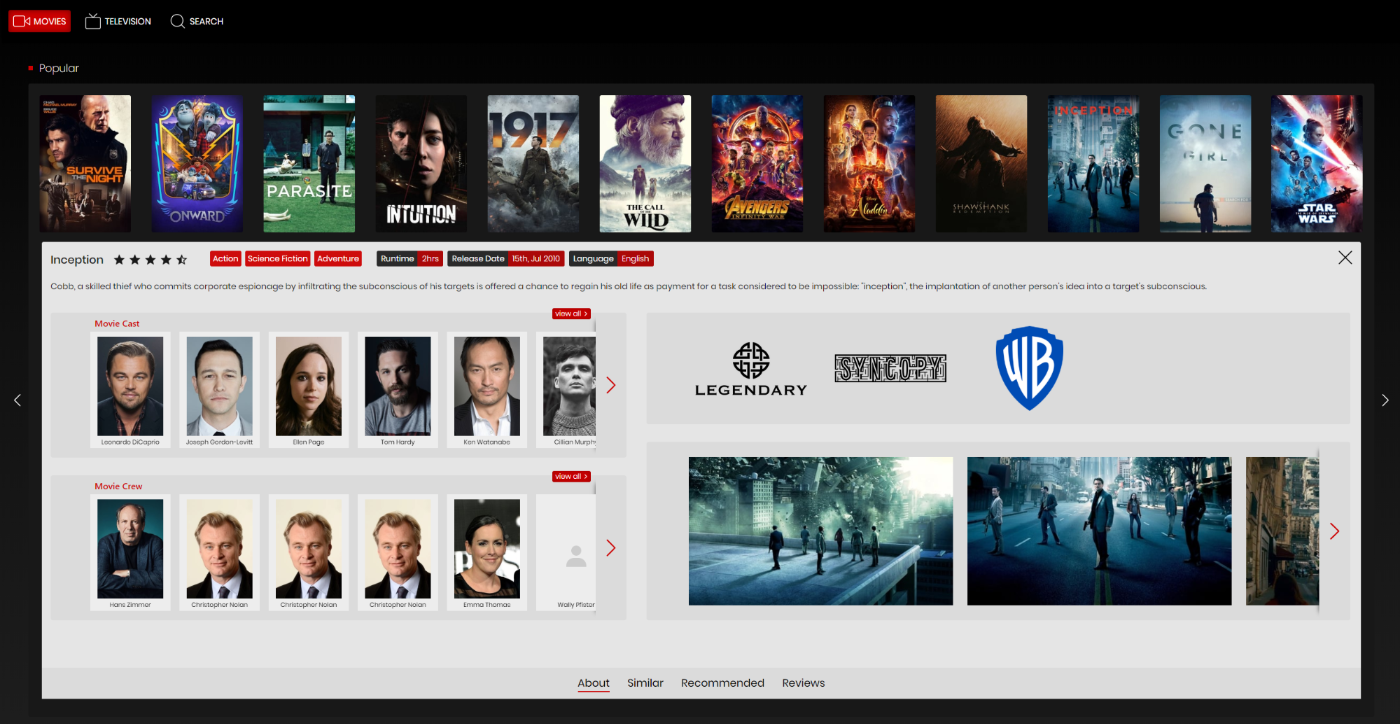
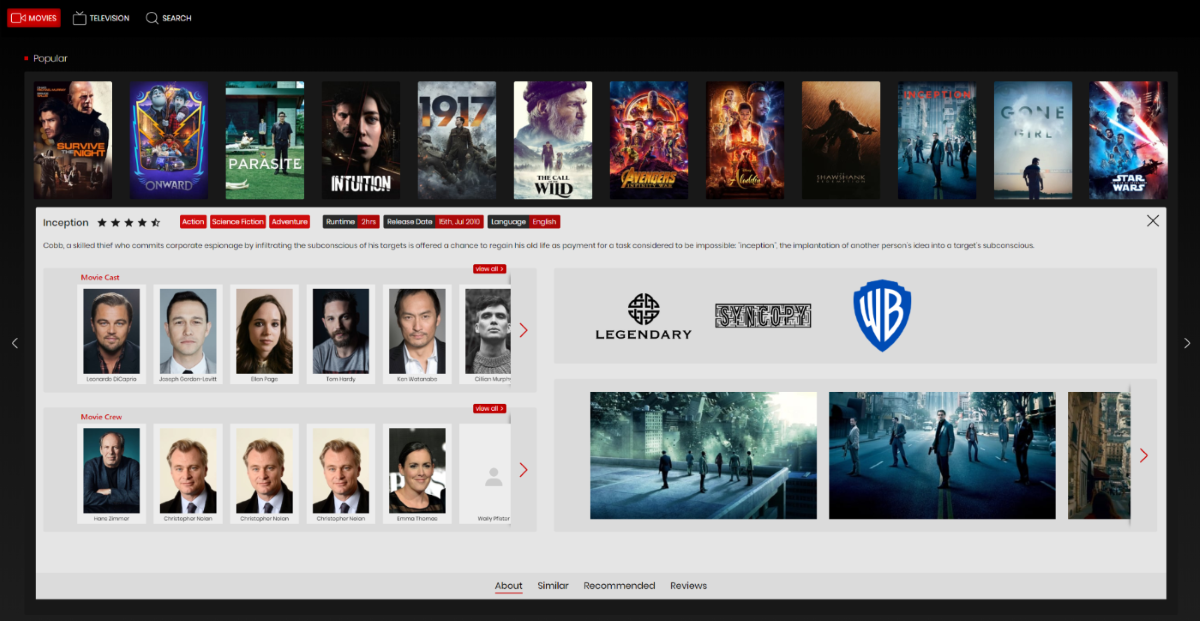
minor upgrades to details section

diff --git a/ui/src/components/media-details/title/details-title.style.ts b/ui/src/components/media-details/title/details-title.style.ts
@@ -18,11 +18,11 @@ export const Title = styled(Font)`
 export const TitleWrapper = styled.div`
   align-items: center;
   display: flex;
+  height: 100%;
   justify-content: flex-start;
   margin-top: .5rem;
-  width: 100%;
   padding-left: 1rem;
-  height: 100%;
+  width: 95%;
 `;
 
 export const DetailsRatingContainer = styled.div`
@@ -44,7 +44,7 @@ export const TitleText = styled.span<{resxProps: responsiveProps}>`
   color: #191919;
   display: flex;
   font-family: Poppins;
-  font-size: ${p => p.resxProps.isBigScreen ? "1.25rem" : "1rem"};
+  font-size: ${p => p.resxProps.isBigScreen ? "1.25rem" : ".9rem"};
   font-weight: 500;
   height: 100%;
   max-width: 85%;
@@ -53,11 +53,12 @@ export const TitleText = styled.span<{resxProps: responsiveProps}>`
   white-space: nowrap;
 `;
 
-export const TitleRow1 = styled.div`
-  align-items: center;
+export const TitleRow1 = styled.div<{resx?: responsiveProps}>`
+  align-items: ${p => p.resx?.isBigScreen ? "center" : "flex-start"};
   display: flex;
   flex-wrap: wrap;
   width: 100%;
+  flex-direction: ${p => p.resx?.isBigScreen ? "row" : "column"};
 `;
 
 export const TitleRow2 = styled.div`
@@ -82,11 +83,11 @@ export const AttributeContainer = styled.div`
   margin-right: .5rem;
 `;
 
-export const GenresContainer = styled.div`
+export const GenresContainer = styled.div<{resx: responsiveProps}>`
   align-items: center;
   display: flex;
   flex-wrap: wrap;
-  margin-left: 2rem;
+  margin-left: ${p => p.resx.isBigScreen ? "3rem" : ""};
 `;
 
 export const MediaRatingWrapper = styled.div`
@@ -95,4 +96,12 @@ export const MediaRatingWrapper = styled.div`
 
 export const ImdbLinkContainer = styled.div<{resx: responsiveProps}>`
   height: ${p => p.resx.isBigScreen ? "1.75rem" : "1.5rem"};
+`;
+
+export const TextAndRating = styled.div<{resx?: responsiveProps}>`
+  display: flex;
+  align-items: center;
+  justify-content: flex-start;
+  margin-bottom: ${p => p.resx?.isBigScreen ? "" : ".5rem"};
+  margin-right: 2rem;
 `;

diff --git a/ui/src/components/media-details/title/details-title.tsx b/ui/src/components/media-details/title/details-title.tsx
@@ -9,6 +9,7 @@ import {
   AttributesContainer,
   MediaRatingWrapper,
   ImdbLinkContainer,
+  TextAndRating,
 } from "./details-title.style";
 import { format } from "date-fns";
 import ISO6391 from "iso-639-1";
@@ -46,15 +47,17 @@ const DetailsTitle: React.FunctionComponent<DetailsTitleModel> = ({
   return (
     <TitleWrapper>
       <Title>
-        <TitleRow1>
-          <TitleText resxProps={resxProps}>{`${title}`}</TitleText>
-          <MediaRatingWrapper>
-            <MediaRating
-              rating={rating || 0}
-              size={RatingSize.large}
-            ></MediaRating>
-          </MediaRatingWrapper>
-          <GenresContainer>
+        <TitleRow1 resx={resxProps}>
+          <TextAndRating resx={resxProps}>
+            <TitleText resxProps={resxProps}>{`${title}`}</TitleText>
+            <MediaRatingWrapper>
+              <MediaRating
+                rating={rating || 0}
+                size={RatingSize.large}
+              ></MediaRating>
+            </MediaRatingWrapper>
+          </TextAndRating>
+          <GenresContainer resx={resxProps}>
             {genres && <Genres items={genres} size={GenreSize.large} />}
             {!resxProps.isTabletOrMobile && (
               <AttributesContainer resxProps={resxProps}>
@@ -81,11 +84,11 @@ const DetailsTitle: React.FunctionComponent<DetailsTitleModel> = ({
                 )}
               </AttributesContainer>
             )}
-          {imdb_id && (
-            <ImdbLinkContainer resx={resxProps}>
-              <MediaImdbLink id={imdb_id} />
-            </ImdbLinkContainer>
-          )}
+            {imdb_id && (
+              <ImdbLinkContainer resx={resxProps}>
+                <MediaImdbLink id={imdb_id} />
+              </ImdbLinkContainer>
+            )}
           </GenresContainer>
         </TitleRow1>
         {/* </TitleRow2> */}

diff --git a/ui/src/components/logo/logo.styles.ts b/ui/src/components/logo/logo.styles.ts
@@ -2,28 +2,29 @@ import styled from "styled-components";
 
 
 export const LogoWrapper = styled.div`
-  padding: .1rem;
-  display: flex;
   align-items: center;
+  display: flex;
   justify-content: center;
+  padding: .1rem;
+  user-select: none;
 `;
 
 export const LogoText = styled.div`
+  border-radius: .25rem;
+  color: #d0d0d0;
   font-family: Poppins;
   font-size: 1.75rem;
   font-weight: 400; 
-  color: #d0d0d0;
-  text-transform: capitalize;
-  border-radius: .25rem;
   position: relative;
+  text-transform: capitalize;
 `;
 
 export const LogoIcon = styled.span`
+  align-items: center;
+  display: flex;
+  height: 100%;
   margin-right: .5rem;
   width: 2rem;
-  height: 100%;
-  display: flex;
-  align-items: center;
 
   & svg {
     width: 100%;
@@ -31,3 +32,8 @@ export const LogoIcon = styled.span`
     fill: #464646;
   }
 `;
+
+export const Trademark = styled.span`
+  font-size: .9rem;
+  vertical-align: text-top;
+`

diff --git a/ui/src/components/header/header.styles.ts b/ui/src/components/header/header.styles.ts
@@ -2,25 +2,25 @@ import styled from 'styled-components';
 import { responsiveProps } from '../../effects/useResponsive';
 
 export const HeaderWrapper = styled.header<{resx?: responsiveProps}>`
-  width: 100%;
-  height: ${p => p.resx?.isBigScreen ? "4rem" : "3.5rem"};
-  display: flex;
   align-items: center;
-  color: #fff;
-  font-weight: 300;
   background: #000;
+  color: #fff;
+  display: flex;
+  font-weight: 300;
+  height: ${p => p.resx?.isBigScreen ? "4rem" : "3.5rem"};
   margin-bottom: 2rem;
   margin-top: 1rem;
   padding-left: 2rem;
+  width: 100%;
 `;
 
 export const SearchAndDiscover = styled.div`
-  height: 4rem;
-  display: flex;
   align-items: center;
+  display: flex;
+  height: 4rem;
   justify-content: flex-start;
-  padding: .25rem;
   margin-left: 3rem;
+  padding: .25rem;
 `;
 
 export const SearchSettingToggle = styled.div<{resx?: responsiveProps}>`

diff --git a/ui/src/components/media-genres/genres-styles.ts b/ui/src/components/media-genres/genres-styles.ts
@@ -1,5 +1,4 @@
 import styled from "styled-components";
-import { GenreSize } from "./genres";
 import { responsiveProps } from "../../effects/useResponsive";
 
 export const GenresWrapper = styled.ul`
@@ -8,7 +7,7 @@ export const GenresWrapper = styled.ul`
   justify-content: flex-start;
   list-style: none;
   margin: 0;
-  padding: .2em;
+  padding: .2em .2em .2em 0;
 `;
 
 export const GenreItem = styled.li<{ resx?: responsiveProps }>`
@@ -24,12 +23,12 @@ export const GenreItem = styled.li<{ resx?: responsiveProps }>`
     if (p.resx?.isBigScreen) {
       return `
         padding: .25em .35em;
-        font-size: .9em;
-        font-weight: 400;
+        font-size: .85em;
+        font-weight: 300;
       `;
     } else {
       return `
-        padding: .25em .35em;
+        padding: .25em .5em;
         font-size: .75em;
         font-weight: 300;`
     }

diff --git a/ui/src/components/media-details/attribute/details-attribute.style.ts b/ui/src/components/media-details/attribute/details-attribute.style.ts
@@ -19,8 +19,8 @@ export const AttributeLabel = styled(Root)`
   align-items: center;
   color: #fff;
   display: flex;
-  font-size: ${p => p.resx?.isBigScreen ? ".9rem" : ".75rem"};
-  font-weight: 400;
+  font-size: ${p => p.resx?.isBigScreen ? ".85rem" : ".75rem"};
+  font-weight: 300;
   justify-content: flex-start;
   padding-left: .5rem;
   text-align: center;
@@ -36,7 +36,7 @@ export const AttributeValue = styled(Root)`
   border-top-right-radius: 3px;
   color: #fff;
   display: flex;
-  font-size: ${p => p.resx?.isBigScreen ? ".9rem" : ".75rem"};
+  font-size: ${p => p.resx?.isBigScreen ? ".85rem" : ".75rem"};
   font-weight: 300;
   height: 100%;
   margin-left: auto;

diff --git a/ui/src/components/media-details/media-imdb-link/media-imdb-link.styles.ts b/ui/src/components/media-details/media-imdb-link/media-imdb-link.styles.ts
@@ -4,7 +4,6 @@ export const ImdbLinkWrapper = styled.div`
   border-radius: .2rem;
   height: 100%;
   background: #000;
-  /* background: #ffd700; */
   box-shadow: inset 0 0 4px 1px rgba(0,0,0,0.1);
 `;
 
@@ -23,7 +22,7 @@ export const ImdbLink = styled.a`
   justify-content: center;
 
   & svg {
-    width: 1.5rem;
+    width: 1rem;
     height: 100%;
     margin-left: .25rem;
   }
@@ -33,6 +32,6 @@ export const ImdbLink = styled.a`
     display: flex;
     align-items: center;
     justify-content: center;
-    padding: 0 .25rem;
+    padding: 0 .5rem;
   }
 `;

diff --git a/ui/src/components/logo/logo.tsx b/ui/src/components/logo/logo.tsx
@@ -1,5 +1,5 @@
 import React from "react";
-import { LogoWrapper, LogoText, LogoIcon } from "./logo.styles";
+import { LogoWrapper, LogoText, LogoIcon, Trademark } from "./logo.styles";
 
 const Logo: React.FunctionComponent = () => (
   <LogoWrapper>
@@ -21,7 +21,9 @@ const Logo: React.FunctionComponent = () => (
         </g>
       </svg>
     </LogoIcon>
-    <LogoText>Flixy</LogoText>
+    <LogoText>
+      Flixy <Trademark>&trade;</Trademark>
+    </LogoText>
   </LogoWrapper>
 );
 

diff --git a/ui/src/components/media-details/home/details-home.styles.ts b/ui/src/components/media-details/home/details-home.styles.ts
@@ -51,7 +51,7 @@ export const CastAndCrewContainer = styled.div<{ resxProps?: responsiveProps }>`
 export const Overview = styled(Title) <{ resxProps?: responsiveProps }>`
   color: #191919;
   font-family: "Poppins";
-  font-size: ${p => p.resxProps?.isBigScreen ? ".85rem" : ".75rem"};
+  font-size: ${p => p.resxProps?.isBigScreen ? ".9rem" : ".85rem"};
   font-weight: 400;
   margin: .25rem 0;
   width: 95%;

diff --git a/ui/src/components/media-details/media-imdb-link/media-imdb-link.tsx b/ui/src/components/media-details/media-imdb-link/media-imdb-link.tsx
@@ -5,7 +5,7 @@ import { ExternalIcon } from "../../icons";
 const MediaImdbLink: React.FunctionComponent<{ id: string }> = ({ id }) => (
   <ImdbLinkWrapper>
     <ImdbLink href={`https://imdb.com/title/${id}`} target="_new">
-      <ExternalIcon color="#fff"/>
+      {/* <ExternalIcon color="#fff"/> */}
       <span>IMDB</span>
     </ImdbLink>
   </ImdbLinkWrapper>

diff --git a/ui/src/components/media-loader/index.tsx b/ui/src/components/media-loader/index.tsx
@@ -23,7 +23,7 @@ const Loader: React.FunctionComponent<{
   style?: any;
   id?: string | number;
 }> = ({ size, style }) => {
-  const wh = size === LoaderSize.small ? 30 : 35;
+  const wh = size === LoaderSize.small ? 25 : 30;
   return (
     <Wrapper style={style}>
       <svg

diff --git a/ui/src/components/media-details/details-main.styles.ts b/ui/src/components/media-details/details-main.styles.ts
@@ -2,8 +2,6 @@ import styled from 'styled-components';
 import { animated } from "react-spring";
 import { responsiveProps } from '../../effects/useResponsive';
 
-
-
 export const DetailsCardWrapper = styled(animated.div)`
   align-items: center;
   background: #000;
